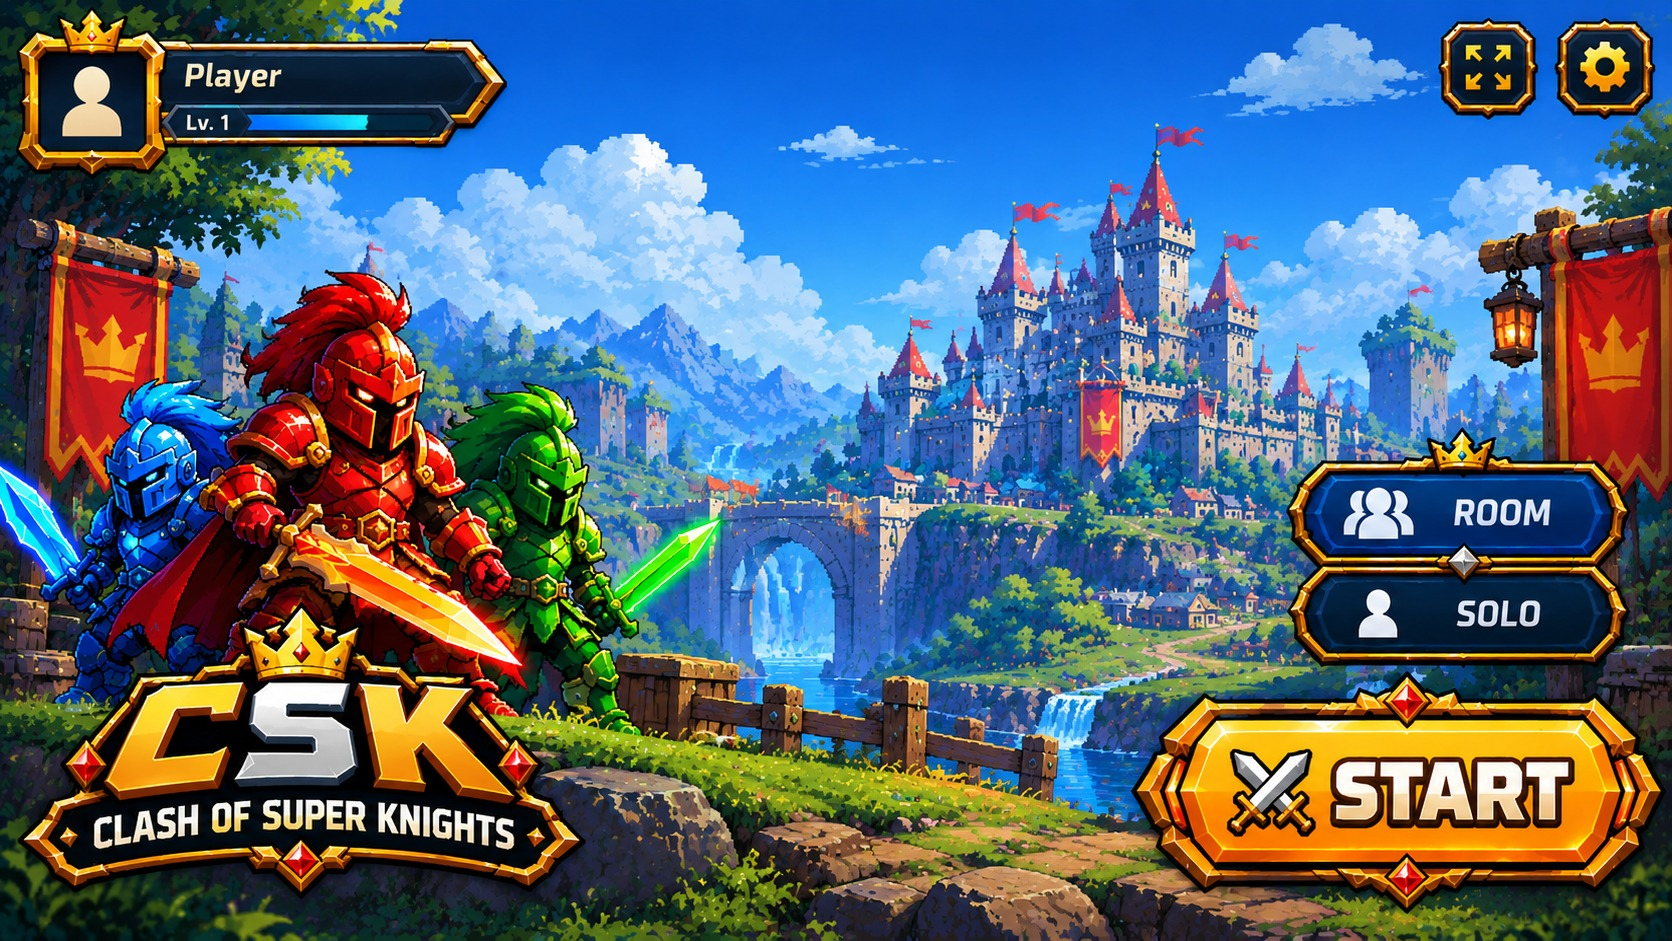
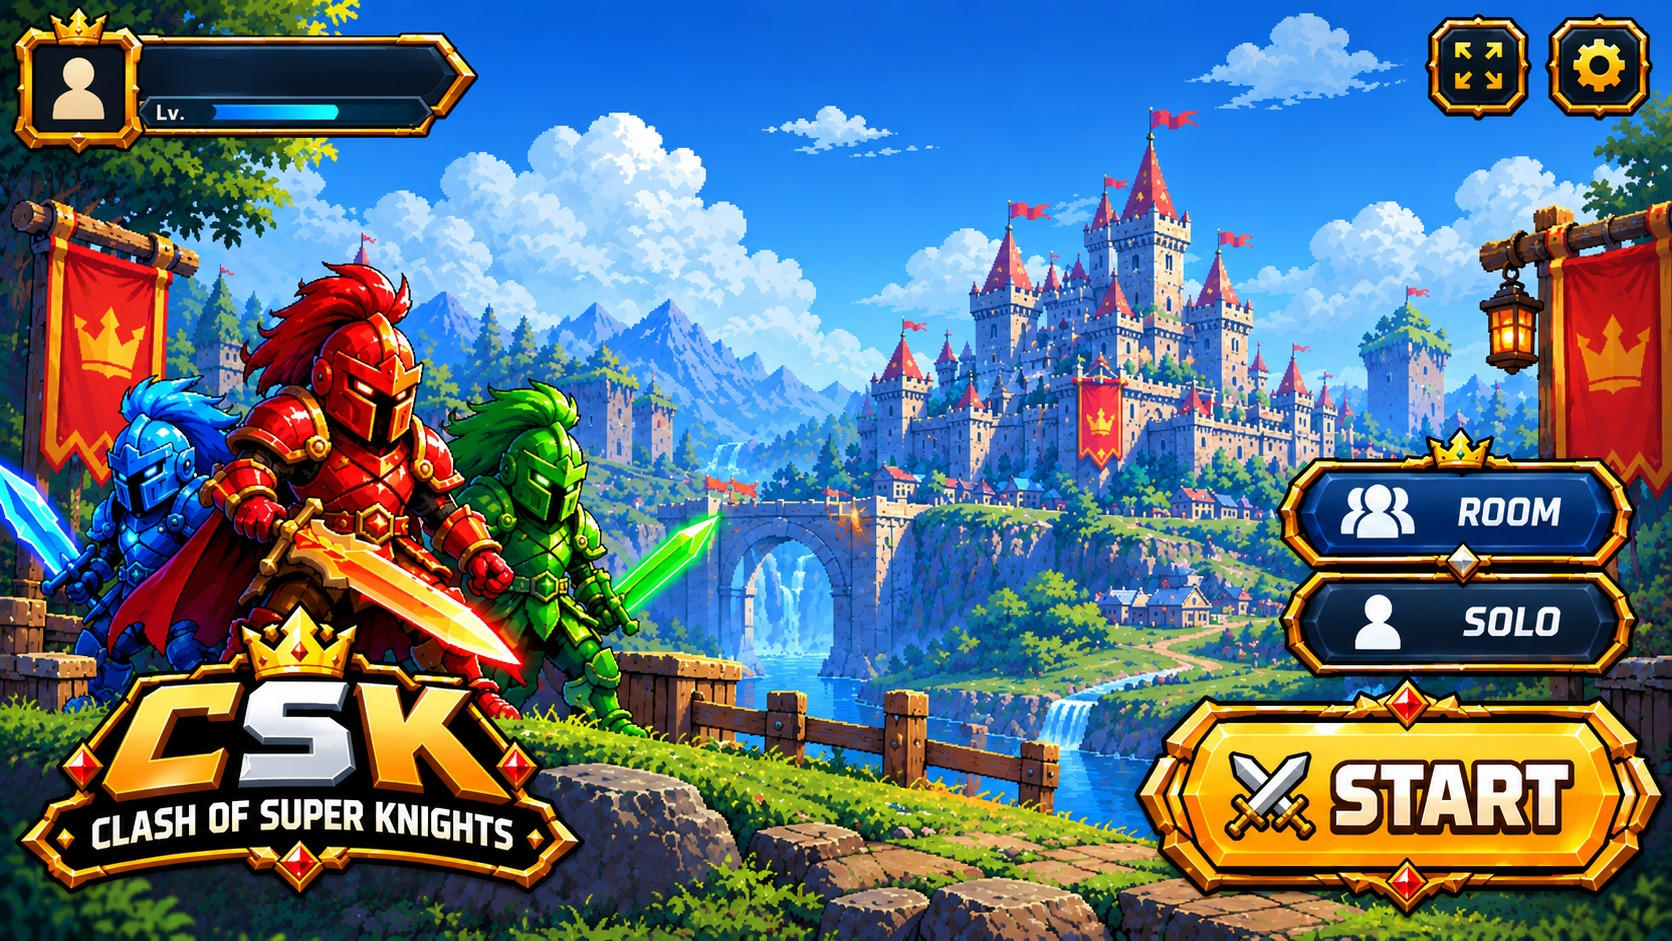
Add files via upload

diff --git a/home-new.css b/home-new.css
@@ -5,8 +5,7 @@
 .hs-bg{position:absolute;inset:0;width:100%;height:100%;object-fit:fill;pointer-events:none;-webkit-user-drag:none}
 .hs-ui,#acc{position:absolute;inset:0}
 #acc{pointer-events:none}#acc>*{pointer-events:auto}
-#login{display:none!important}
-.hb,.hs-name,.lvl{position:absolute;left:calc(var(--x)/1672*100%);top:calc(var(--y)/941*100%);width:calc(var(--w)/1672*100%);height:calc(var(--h)/941*100%);margin:0;box-sizing:border-box}
+.hb,.nmv,.lvl{position:absolute;left:calc(var(--x)/1672*100%);top:calc(var(--y)/941*100%);width:calc(var(--w)/1672*100%);height:calc(var(--h)/941*100%);margin:0;box-sizing:border-box}
 .hb{padding:0;border:0;background:none;cursor:pointer;-webkit-tap-highlight-color:transparent;touch-action:manipulation;outline:0;border-radius:calc(18*var(--u));
  --bgw:calc(1672/var(--w)*100%);--bgh:calc(941/var(--h)*100%);--bgx:calc(var(--x)/(1672 - var(--w))*100%);--bgy:calc(var(--y)/(941 - var(--h))*100%);
  transition:transform .12s cubic-bezier(.2,.8,.2,1)}
@@ -22,14 +21,15 @@
 .hb.sel{box-shadow:0 0 0 calc(3*var(--u)) #ffd067,0 0 calc(22*var(--u)) #ffb02ecc}
 .hb.sel .face{opacity:1;filter:brightness(1.12) saturate(1.1)}
 /* profile */
-#pav .ph{position:absolute;inset:6% 6%;border-radius:calc(12*var(--u));background:#0c1a2e center/cover no-repeat;display:none}
+#pav .ph{position:absolute;left:13.3%;top:18.8%;width:71.9%;height:66.4%;background:#0c1a2e center/cover no-repeat;display:none;clip-path:polygon(5% 0,95% 0,100% 5%,100% 95%,95% 100%,5% 100%,0 95%,0 5%)}
 #acc[data-photo="1"] #pav .ph{display:block}
-.hs-name{--x:186;--y:56;--w:262;--h:46;padding:0 1%;border:0;border-radius:0;background:#061629;color:#fff;text-align:left;
- font:700 calc(34*var(--u)) Rajdhani,system-ui,sans-serif;outline:0;text-overflow:ellipsis;box-shadow:none}
-.hs-name::placeholder{color:#fff;opacity:1}
-.hs-name:focus{box-shadow:inset 0 calc(-3*var(--u)) 0 #ffb02e}
-.hs-name[readonly]{cursor:default;box-shadow:none}
-.lvl{--x:244;--y:108;--w:210;--h:30;display:flex;align-items:center;justify-content:center;gap:calc(8*var(--u));background:#07182b;color:#9fb3cc;
+#menu #nm{display:none!important}
+.nmv{--x:156;--y:50;--w:276;--h:42;display:flex;align-items:center;overflow:hidden;pointer-events:none!important;color:#fff;font:700 calc(32*var(--u)) Rajdhani,system-ui,sans-serif;text-shadow:0 1px 0 #000a}
+.nmv span{display:inline-block;white-space:nowrap}
+.nmv.mq{justify-content:flex-start;-webkit-mask-image:linear-gradient(90deg,#000 88%,transparent);mask-image:linear-gradient(90deg,#000 88%,transparent)}
+.nmv.mq span{animation:mq var(--d,6s) linear infinite alternate}
+@keyframes mq{0%,15%{transform:translateX(0)}85%,100%{transform:translateX(var(--s))}}
+.lvl{--x:214;--y:101;--w:216;--h:28;display:flex;align-items:center;justify-content:center;gap:calc(8*var(--u));background:#07182b;color:#9fb3cc;
  font:700 calc(20*var(--u)) Rajdhani,system-ui,sans-serif;letter-spacing:.12em;pointer-events:none!important}
 .lvl svg{height:60%;fill:currentColor}
 /* full-screen: show "exit" icon over the art when on */
@@ -57,4 +57,7 @@
 #rm::placeholder{font:600 18px Rajdhani,system-ui,sans-serif;letter-spacing:.1em;color:#8993a6}
 #rm.bad{animation:sk .35s;border-color:#ff5a4a}
 @keyframes sk{25%{transform:translateX(-8px)}75%{transform:translateX(8px)}}
-@media (orientation:portrait) and (pointer:coarse){body:has(#menu:not([style*="none"])) #rot{display:flex}}
+/* Portrait phone: no "rotate" screen on login/home; the whole screen is turned sideways instead */
+@media (orientation:portrait) and (pointer:coarse){
+ #menu,#login{inset:auto!important;top:0!important;left:100vw!important;left:100dvw!important;width:100vh!important;width:100dvh!important;height:100vw!important;height:100dvw!important;transform-origin:0 0;transform:rotate(90deg)}
+}

diff --git a/index.html b/index.html
@@ -81,15 +81,15 @@
 <img class="hs-bg" src="home-art.jpg" alt="Clash of Super Knights" draggable="false" decoding="sync" fetchpriority="high">
 <div class="hs-ui">
  <div id="acc" data-s="guest" data-nudge="0">
-  <button class="hb" id="pav" type="button" aria-label="Profile" style="--x:24;--y:34;--w:136;--h:128"><i class="face"></i><i class="ph"></i></button>
-  <input id="nm" class="hs-name" maxlength="12" placeholder="Player" autocomplete="off" spellcheck="false" aria-label="Callsign">
+  <button class="hb" id="pav" type="button" aria-label="Profile" style="--x:16;--y:22;--w:128;--h:128"><i class="face"></i><i class="ph"></i></button>
+  <input id="nm" class="hs-name" maxlength="12" placeholder="Player" autocomplete="off" spellcheck="false" aria-label="Callsign" tabindex="-1"><div id="nmv" class="nmv"><span id="nmt">Player</span></div>
   <div class="lvl" title="Locked for now"><svg viewBox="0 0 24 24" aria-hidden="true"><path d="M7 10V8a5 5 0 0 1 10 0v2h1.5a1.5 1.5 0 0 1 1.5 1.5v8a1.5 1.5 0 0 1-1.5 1.5h-13A1.5 1.5 0 0 1 4 19.5v-8A1.5 1.5 0 0 1 5.5 10zm2 0h6V8a3 3 0 0 0-6 0z"/></svg>LOCKED</div>
  </div>
- <button class="hb" id="fsb" type="button" aria-label="Enter full screen" aria-pressed="false" style="--x:1442;--y:22;--w:94;--h:94"><i class="face"></i><svg class="fco" viewBox="0 0 24 24" aria-hidden="true"><path d="M9.5 4v5.5H4M20 9.5h-5.5V4M14.5 20v-5.5H20M4 14.5h5.5V20"/></svg></button>
- <button class="hb" id="stb" type="button" aria-label="Settings" style="--x:1558;--y:22;--w:94;--h:94"><i class="face"></i></button>
- <button class="hb sel" id="mroom" type="button" aria-label="Room" style="--x:1292;--y:466;--w:334;--h:98"><i class="face"></i></button>
- <button class="hb" id="msolo" type="button" aria-label="Solo" style="--x:1296;--y:572;--w:328;--h:90"><i class="face"></i></button>
- <button class="hb" id="mstart" type="button" aria-label="Start" style="--x:1140;--y:700;--w:516;--h:196"><i class="face"></i></button>
+ <button class="hb" id="fsb" type="button" aria-label="Enter full screen" aria-pressed="false" style="--x:1430;--y:18;--w:97;--h:97"><i class="face"></i><svg class="fco" viewBox="0 0 24 24" aria-hidden="true"><path d="M9.5 4v5.5H4M20 9.5h-5.5V4M14.5 20v-5.5H20M4 14.5h5.5V20"/></svg></button>
+ <button class="hb" id="stb" type="button" aria-label="Settings" style="--x:1550;--y:18;--w:100;--h:97"><i class="face"></i></button>
+ <button class="hb sel" id="mroom" type="button" aria-label="Room" style="--x:1285;--y:462;--w:345;--h:106"><i class="face"></i></button>
+ <button class="hb" id="msolo" type="button" aria-label="Solo" style="--x:1285;--y:575;--w:347;--h:97"><i class="face"></i></button>
+ <button class="hb" id="mstart" type="button" aria-label="Start" style="--x:1140;--y:695;--w:520;--h:210"><i class="face"></i></button>
  <button class="hs-cs" id="cs" type="button" data-s="wait"><i></i><span>Connecting…</span></button>
 </div>
 <div id="pop" hidden role="dialog" aria-label="Room"><div class="pcard">

diff --git a/game.js b/game.js
@@ -1335,7 +1335,13 @@ function lockName(n){locked=n;const nm=$('nm');
  if(nm){nm.value=n;nm.readOnly=true;nm.classList.add('cs-lock');nm.title='Your callsign is permanent';nm.setAttribute('aria-readonly','true')}
  LS('ar-name',n);const w=user||hint;if(w)LS('ar-cs',JSON.stringify({uid:w.uid,name:n}));
  const lb=document.querySelector('label[for="nm"]');if(lb&&!lb.querySelector('.cs-lk'))lb.insertAdjacentHTML('beforeend','<span class="cs-lk">'+LOCK_SVG+' PERMANENT</span>')}
-function claim(n){return new Promise((res,rej)=>{let fin=0;const t=setTimeout(()=>{if(!fin){fin=1;rej({code:'timeout'})}},9000);
+/* global unique-name index: callsigns/<lowercase name> = uid (first come, first served) */
+function nameKey(n){return String(n).toLowerCase().replace(/\s+/g,' ').trim().replace(/[.$#\[\]\/]/g,c=>'%'+c.charCodeAt(0).toString(16).toUpperCase())}
+function claimIdx(n){return new Promise((res,rej)=>{let fin=0;const t=setTimeout(()=>{if(!fin){fin=1;rej({code:'timeout'})}},9000);
+ try{db.ref('callsigns/'+nameKey(n)).transaction(cur=>(cur&&cur!==user.uid)?undefined:user.uid,(err,ok)=>{if(fin)return;fin=1;clearTimeout(t);if(err)rej(err);else if(!ok)rej({code:'name-taken'});else res()},false)}
+ catch(e){if(!fin){fin=1;clearTimeout(t);rej(e)}}})}
+async function claim(n){await claimIdx(n);return claim0(n)}
+function claim0(n){return new Promise((res,rej)=>{let fin=0;const t=setTimeout(()=>{if(!fin){fin=1;rej({code:'timeout'})}},9000);
  try{ref('callsign').transaction(cur=>cur&&cur.name?undefined:{name:n,t:Date.now()},(err,ok,snap)=>{if(fin)return;fin=1;clearTimeout(t);if(err)rej(err);else{const v=snap&&snap.val();res(v&&v.name?String(v.name):n)}},false)}
  catch(e){if(!fin){fin=1;clearTimeout(t);rej(e)}}})}
 function askName(pre){if(askP)return askP;
@@ -1383,7 +1389,7 @@ function askName(pre){if(askP)return askP;
 async function settleName(pv){let cs=null,den=false;
  try{cs=(await ref('callsign').once('value')).val()}catch(e){if(isDenied(e))den=true;else throw e}
  const hasName=!!(cs&&cs.name);
- if(hasName)lockName(cleanName(cs.name));
+ if(hasName){lockName(cleanName(cs.name));claimIdx(cleanName(cs.name)).catch(()=>{})}
  const L=window.CSKLogin;
  if(L){ /* new login screen: ask for a permanent name and a password (password = email/password login linked to this Google account) */
   if(den&&!hasName)console.warn('callsign: database rules do not allow users/<uid>/callsign');

diff --git a/home-new.js b/home-new.js
@@ -27,5 +27,8 @@ $('pav').onclick=function(){if($('acc').dataset.s==='guest')$('acbtn').click()};
 function photo(){var a=window.ARA&&ARA.account&&ARA.account(),ph=document.querySelector('#pav .ph'),acc=$('acc');
  if(a&&a.photo){ph.style.backgroundImage='url("'+a.photo+'")';acc.dataset.photo='1'}else acc.dataset.photo='0'}
 var mo=new MutationObserver(photo);mo.observe($('acc'),{attributes:true,attributeFilter:['data-s']});mo.observe($('acn'),{childList:true,characterData:true,subtree:true});
-setInterval(photo,2000);photo();
+var nm=$('nm'),nv=$('nmv'),nt=$('nmt'),last=null;
+function name(){var v=(nm.value||'').trim()||'Player';if(v===last)return;last=v;nt.textContent=v;nv.classList.remove('mq');
+ requestAnimationFrame(function(){var o=nt.offsetWidth-nv.clientWidth;if(o>2){nv.style.setProperty('--s',-(o+8)+'px');nv.style.setProperty('--d',Math.max(4,o/25)+'s');nv.classList.add('mq')}})}
+setInterval(function(){photo();name()},500);photo();name();
 })();

diff --git a/login.js b/login.js
@@ -154,7 +154,7 @@ function ask(o){return new Promise(function(resolve){
    var c=e&&e.code||'',den=String(c).toUpperCase().indexOf('PERMISSION')>=0||/permission[_ ]denied/i.test(String(e&&e.message||''));
    if(needPw)pp.disabled=false;if(needName)nm.readOnly=false;
    check();
-   say2(needPw?pwFail(e):den?'Names cannot be saved yet: the database rules do not allow users/<uid>/callsign.':'Could not reach the server. Check your connection and try again.','bad');
+   say2(c==='name-taken'?'That name is already taken. Choose another.':needPw?pwFail(e):den?'Names cannot be saved yet: the database rules do not allow users/<uid>/callsign.':'Could not reach the server. Check your connection and try again.','bad');
    return}
   say2('Saved \u2713','ok');
   try{navigator.vibrate&&navigator.vibrate([12,40,18])}catch(e){}

diff --git a/asset-cache.js b/asset-cache.js
@@ -6,7 +6,7 @@
    asset's <img src> is swapped to a local blob: URL as soon as it's available. */
 (function(){
 'use strict';
-var ASSETS=['loading-bg.jpg','home-art.jpg','lobby-bg.jpg','victory-bg.png'];
+var ASSETS=['loading-bg.jpg','home-art.jpg','lobby-bg.jpg','login-bg.jpg','victory-bg.png'];
 var DB='csk-assets',STORE='files',VER=1;
 function openDB(){return new Promise(function(res,rej){
  var r=indexedDB.open(DB,VER);
